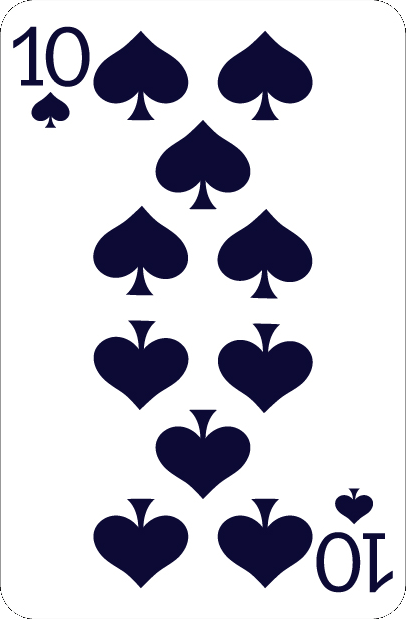
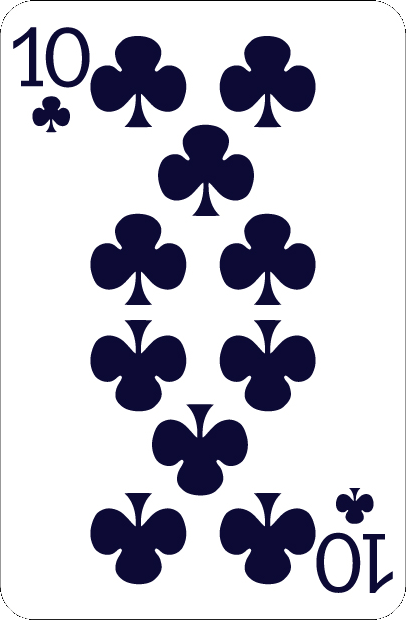
New cards

diff --git a/src/index.ts b/src/index.ts
@@ -27,7 +27,11 @@ let blackjackgame = {
   },
 
 
-  cards: ["A", "2", "3", "4", "5", "6", "7", "8", "9", "10", "J", "Q", "K"],
+  cards: ["HerzA", "Herz2", "Herz3", "Herz4", "Herz5", "Herz6", "Herz7", "Herz8", "Herz9", "Herz10", "HerzJ", "HerzQ", "HerzK", 
+          "KreuzA","Kreuz2","Kreuz3","Kreuz4","Kreuz5","Kreuz6","Kreuz7","Kreuz8","Kreuz9","Kreuz10","KreuzJ","KreuzQ","KreuzK",
+          "PikA","Pik2","Pik3","Pik4","Pik5","Pik6","Pik7","Pik8","Pik9","Pik10","PikJ","PikQ","PikK",
+          "KaroA","Karo2","Karo3","Karo4","Karo5","Karo6","Karo7","Karo8","Karo9","Karo10","KaroJ","KaroQ","KaroK"
+],
 
  // cardsMap: { "A": [1, 11], "2": 2, "3": 3, "4": 4, "5": 5, "6": 6, "7": 7, "8": 8, "9": 9, "10": 10, "J": 10, "Q": 10, "K": 10},
 
@@ -37,8 +41,10 @@ let blackjackgame = {
   PlayerHit: false,
 
 };
-let cardsMap: {[key:string]:number[]} = { "A": [1, 11], "2": [2], "3": [3], "4": [4], "5": [5], "6": [6], "7": [7], "8": [8], "9": [9], "10": [10], "J": [10], "Q": [10], "K": [10]};
-
+let cardsMap: {[key:string]:number[]} = { "HerzA": [1, 11], "Herz2": [2], "Herz3": [3], "Herz4": [4], "Herz5": [5], "Herz6": [6], "Herz7": [7], "Herz8": [8], "Herz9": [9], "Herz10": [10], "HerzJ": [10], "HerzQ": [10], "HerzK": [10],
+"KaroA": [1, 11], "Karo2": [2], "Karo3": [3], "Karo4": [4], "Karo5": [5], "Karo6": [6], "Karo7": [7], "Karo8": [8], "Karo9": [9], "Karo10": [10], "KaroJ": [10], "KaroQ": [10], "KaroK": [10],
+"PikA": [1, 11], "Pik2": [2], "Pik3": [3], "Pik4": [4], "Pik5": [5], "Pik6": [6], "Pik7": [7], "Pik8": [8], "Pik9": [9], "Pik10": [10], "PikJ": [10], "PikQ": [10], "PikK": [10],
+"KreuzA": [1, 11], "Kreuz2": [2], "Kreuz3": [3], "Kreuz4": [4], "Kreuz5": [5], "Kreuz6": [6], "Kreuz7": [7], "Kreuz8": [8], "Kreuz9": [9], "Kreuz10": [10], "KreuzJ": [10], "KreuzQ": [10], "KreuzK": [10] };
 
 interface IPlayer { Wertdiv: string, div: string, boxSize: string, score: number };
 interface IDealer { Wertdiv: string, div: string, boxSize: string, score: number };
@@ -94,6 +100,9 @@ surrendertbutton.addEventListener("click", nextRound);
 const wager = document.getElementById("Wager")as HTMLInputElement
 //Anfang der Funktionen
 wager.addEventListener("change",choosewager)
+
+
+
 function restartgame(){
   if(blackjackgame.pressOnce === false){
  //Spieler wählt einsatz
@@ -132,14 +141,16 @@ function blackjackStand(){
   //let yourImages = document.getElementById("#PlayerSide").querySelectorAll("img");
   blackjackgame.pressOnce = true;
   blackjackgame["isTurnsOver"] = true
+
+  CalculateWinner();
+  showWinner();
   }
   
   //for(let i: number = 0; i < yourImages.length; i++){
 
 /*blackjackgame["isTurnsOver"] = true;
   blackjackgame.pressOnce = true;*/
-  CalculateWinner();
-  showWinner();
+
   }
 
 
@@ -192,7 +203,7 @@ function showCardPlayer(card: string, activePlayer: IPlayer){
   if(activePlayer["score"] <= 21){
     let cardImage = document.createElement("img")as HTMLImageElement;
    // console.log(cardImage)
-    cardImage.src = `TestCards/${card}.png`;
+    cardImage.src = `Playingcards/${card}.png`;
     let filtercards = blackjackgame.cards.filter((item)=>{return item !== card});
    // cardImage.style = `width: ${widthSize()}; height:${heightSize()};`;
     const Cardplace = document.querySelector(activePlayer["div"])as HTMLDivElement;
@@ -205,7 +216,7 @@ function showCardDealer(card: string, activePlayer: IDealer){
   if(activePlayer["score"] <= 21){
     let cardImage = document.createElement("img")as HTMLImageElement;
    // console.log(cardImage)
-    cardImage.src = `TestCards/${card}.png`;
+    cardImage.src = `Playingcards/${card}.png`;
     let filtercards = blackjackgame.cards.filter((item)=>{return item !== card});
    // cardImage.style = `width: ${widthSize()}; height:${heightSize()};`;
     const Cardplace = document.querySelector(activePlayer["div"])as HTMLDivElement;
@@ -223,7 +234,9 @@ document.getElementsByClassName("PlayerWertBJ")
 }*/
 
 function updateWertPlayer(card: string, activePlayer: IPlayer) {
-  if (card === "A") {
+
+  // als schleife Solange unter 21
+  if (card === "HerzA" || card === "KaroA"  || card === "PikA" || card === "KreuzA" ) {
     if (activePlayer["score"] + cardsMap[card][1] <= 21) {
       activePlayer["score"] += cardsMap[card][1];
     } else {
@@ -247,7 +260,9 @@ function updateWertPlayer(card: string, activePlayer: IPlayer) {
 
 
 function updateWertDealer(card: string, activePlayer: IDealer) {
-  if (card === "A") {
+  
+  // als schleife Solange unter 21
+  if (card === "HerzA" || card === "KaroA"  || card === "PikA" || card === "KreuzA" ) {
     if (activePlayer["score"] + cardsMap[card][1] <= 21) {
       activePlayer["score"] += cardsMap[card][1];
     } else {
@@ -387,7 +402,10 @@ function nextRound(){
   let winmessage = document.querySelector("#winner")as HTMLSpanElement;
   winmessage.innerHTML = "The Game";
   winmessage.style.color = "white";
-  blackjackgame.cards= ["A", "2", "3", "4", "5", "6", "7", "8", "9", "10", "J", "Q", "K"];
+  blackjackgame.cards= ["HerzA", "Herz2", "Herz3", "Herz4", "Herz5", "Herz6", "Herz7", "Herz8", "Herz9", "Herz10", "HerzJ", "HerzQ", "HerzK", 
+  "KreuzA","Kreuz2","Kreuz3","Kreuz4","Kreuz5","Kreuz6","Kreuz7","Kreuz8","Kreuz9","Kreuz10","KreuzJ","KreuzQ","KreuzK",
+  "PikA","Pik2","Pik3","Pik4","Pik5","Pik6","Pik7","Pik8","Pik9","Pik10","PikJ","PikQ","PikK",
+  "KaroA","Karo2","Karo3","Karo4","Karo5","Karo6","Karo7","Karo8","Karo9","Karo10","KaroJ","KaroQ","KaroK"];
   blackjackgame["PlayerHit"] = false;
   blackjackgame["isTurnsOver"] = false;
   blackjackgame["isStand"] = false;

diff --git a/index.html b/index.html
@@ -28,8 +28,8 @@
             <div id="Playercardsurface"></div>   
         <div class="Wagerdiv">
             <div class="Cashspace">
-           <span>     Cash:</span><span id="Cash">1.000.000€</span>
-                Winnings: <span id="Winnings">1.000.000€</span>
+           <span class="CashTitel">Cash:</span><span id="Cash">1.000.000€</span> <br/>
+           <span class="CashTitel">Winnings: <span id="Winnings">1.000.000€</span>
             </div>
             Wager in €:
             <input id="Wager" value="100" type="number" min="100" max="1000" step="50">

diff --git a/Stylesheet.css b/Stylesheet.css
@@ -193,3 +193,8 @@ padding-top: 10px;
     
    
 }
+
+.CashTitel{
+    text-align: left;
+    
+}
